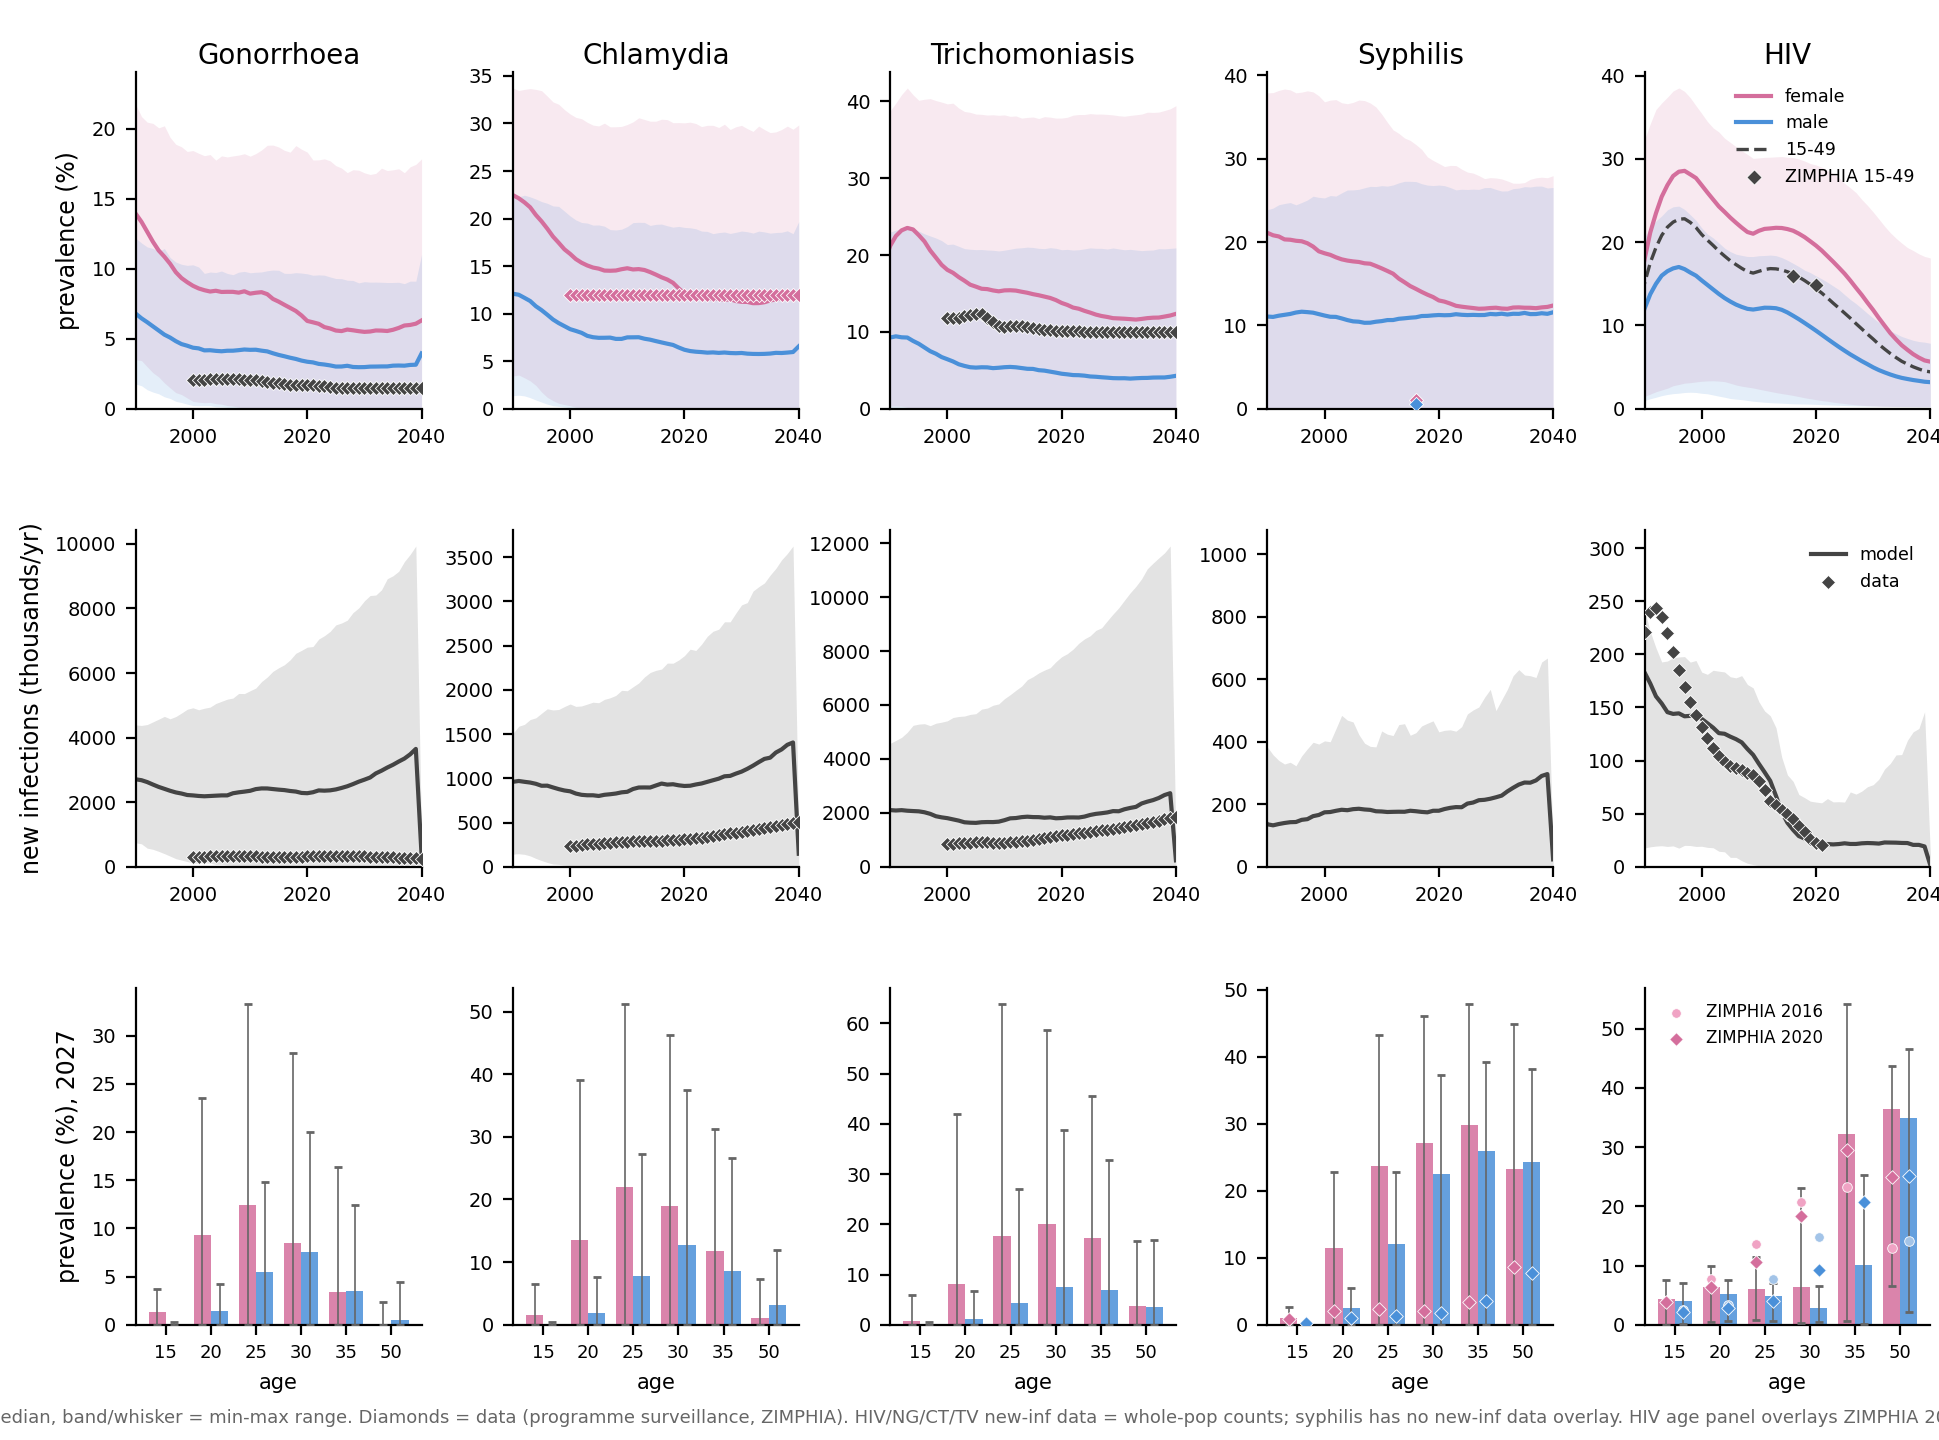
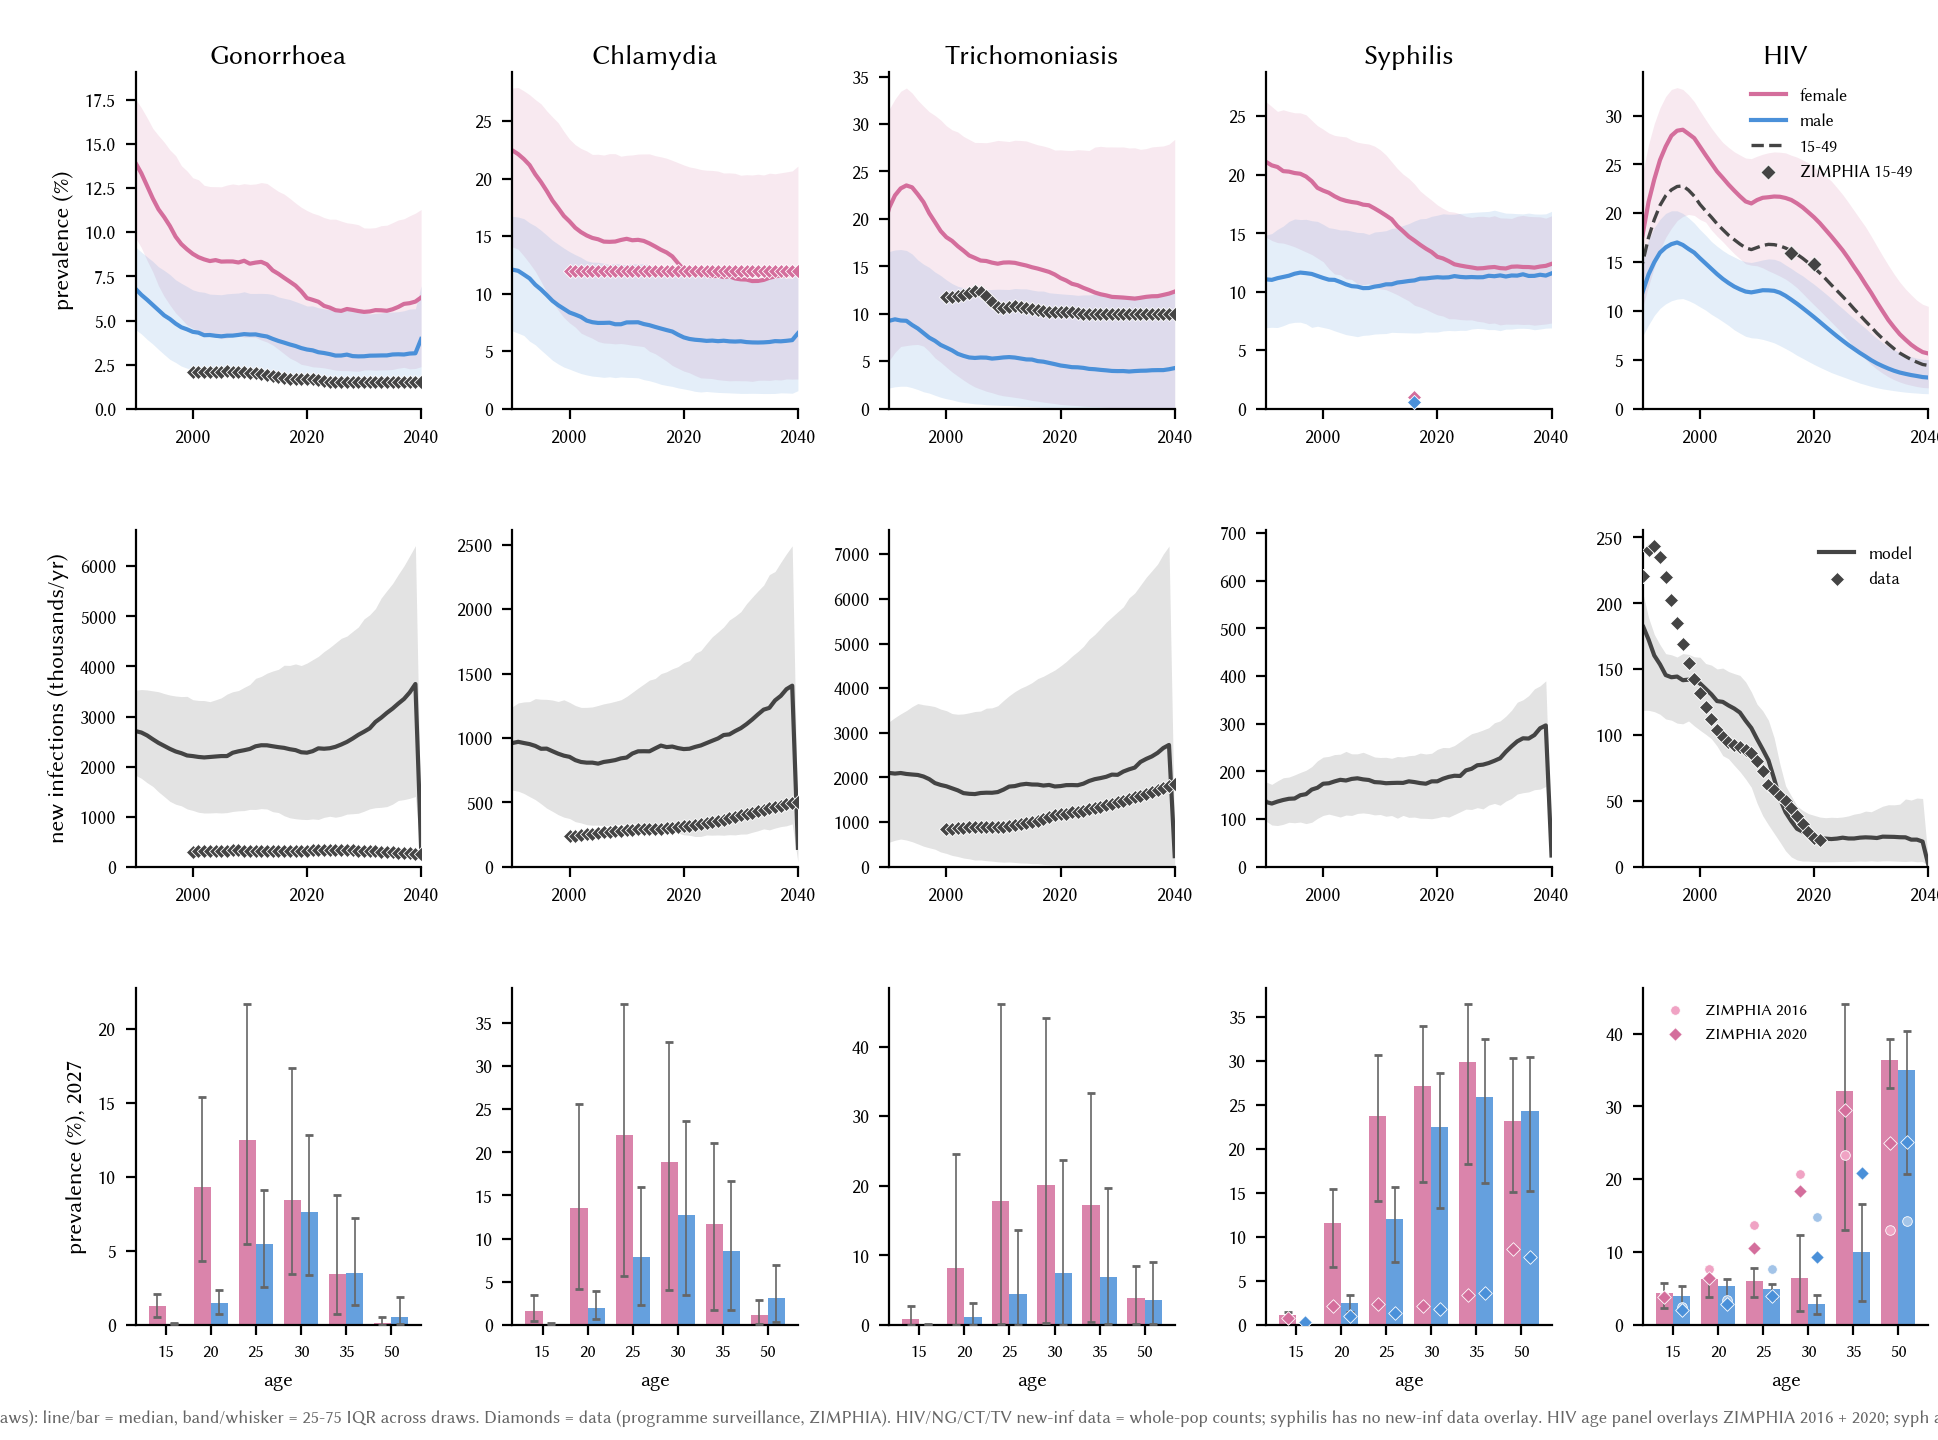
Fix POC pre-2027 divergence + BP rel_sus; use 25-75 IQR bands
- POCPN routes attendees through syndromic mgmt before intv_year (matches
  SOC), only switching to the POC cascade at 2027. Removes the pre-2027
  SOC-vs-POC divergence (verified bit-identical pre-2027).
- CondomCounseling applies rel_sus multiplicatively instead of overwriting,
  composing with hiv_sti/bv cofactors. BP now monotonically reduces NG/CT/TV.
- plot_epi.py / plot_validation.py bands: min-max -> 25-75 IQR across draws.

diff --git a/interventions.py b/interventions.py
@@ -52,17 +52,24 @@ class SyndromicPN(PartnerNotification):
 
 class POCPN(PartnerNotification):
     """
-    Partner notification adapted for POC etiological testing.
+    Partner notification for the POC arm, switching at ``intv_year``.
 
-    On attendance, routes partners through:
+    The POC arm must be identical to the SOC arm before ``intv_year``:
+    pre-switch, attendees are routed through syndromic management exactly
+    as :class:`SyndromicPN` does (by sex, to syndromic_vds/uds). Only at
+    ``intv_year`` does routing switch to the POC etiological cascade:
       1. The POC NG/CT/TV panel (etiological dx, replaces syndromic_vds/uds).
       2. The POC syph PN test (rpr, non-treponemal RDT; 0.90 sens across
          primary/secondary/latent/tertiary, 0.05 FP on cured).
 
-    Looks up both routed interventions by name through ``self.sim`` at
-    step time. Stashing refs at construction would bind to instances
-    that the sim has since cloned (their state arrays would be stale /
-    unallocated).
+    Without this time switch, pre-2027 PN attendees in the POC arm would be
+    routed to ``panel``/``syph_pn_test`` (both gated to ``start=intv_year``),
+    so they'd receive no treatment while the SOC arm treats the same
+    attendees via syndromic management — a deterministic pre-2027 divergence.
+
+    Looks up routed interventions by name through ``self.sim`` at step time.
+    Stashing refs at construction would bind to instances that the sim has
+    since cloned (their state arrays would be stale / unallocated).
 
     Cycle prevention + diagnostic results come from the base
     :class:`sti.PartnerNotification`.
@@ -72,16 +79,39 @@ class POCPN(PartnerNotification):
         panel_name: name of the symptomatic-testing panel intervention to
             route NG/CT/TV testing through (defaults to ``'panel'``).
         syph_pn_test_name: name of the syph PN test (rpr product).
+        syndromic_vds_name: women's syndromic-mgmt intervention (pre-switch).
+        syndromic_uds_name: men's syndromic-mgmt intervention (pre-switch).
+        intv_year: year the POC routing switches on. Default 2027.
     """
     def __init__(self, eligibility, panel_name='panel',
-                 syph_pn_test_name='syph_pn_test', **kwargs):
+                 syph_pn_test_name='syph_pn_test',
+                 syndromic_vds_name='syndromic_vds',
+                 syndromic_uds_name='syndromic_uds',
+                 intv_year=2027, **kwargs):
         super().__init__(eligibility=eligibility, test=None, **kwargs)
         self._panel_name = panel_name
         self._syph_pn_test_name = syph_pn_test_name
+        self._syndromic_vds_name = syndromic_vds_name
+        self._syndromic_uds_name = syndromic_uds_name
+        self._intv_year = intv_year
 
     def notify_attendees(self, uids):
         if not len(uids):
             return
+        # Pre-switch: route through syndromic management, identical to the
+        # SOC arm (SyndromicPN), so the POC arm matches SOC before intv_year.
+        if self.sim.now < self._intv_year:
+            ppl = self.sim.people
+            vds = self.sim.interventions.get(self._syndromic_vds_name)
+            uds = self.sim.interventions.get(self._syndromic_uds_name)
+            f_uids = uids[ppl.female[uids]]
+            m_uids = uids[ppl.male[uids]]
+            if len(f_uids) and vds is not None:
+                vds.step(uids=f_uids)
+            if len(m_uids) and uds is not None:
+                uds.step(uids=m_uids)
+            return
+        # Post-switch: POC etiological cascade.
         panel = self.sim.interventions.get(self._panel_name)
         if panel is not None:
             panel.step(uids=uids)
@@ -734,9 +764,14 @@ class CondomCounseling(ss.Intervention):
     enrolled in a protection window of ``dur``: during it their re-acquisition
     susceptibility (``rel_sus``) for the protected diseases is multiplied by
     ``(1 - eff)``. Acquisition only; onward transmission is left untouched.
-    Each step previously-managed agents are reset to 1.0 and the currently-
-    protected set re-applied, so expiry needs no extra bookkeeping beyond
-    ``ti_protect_end``.
+
+    The multiplier is applied multiplicatively each step, matching how the
+    disease risk factors and coinfection connectors (hiv_sti, bv) compose on
+    ``rel_sus``. Each disease's ``step_state`` resets ``rel_sus[:] = 1`` and
+    connectors re-apply their cofactors before interventions run, so
+    multiplying the currently-protected set here both composes with those
+    cofactors and self-expires when an agent leaves the protected set — no
+    reset bookkeeping needed beyond ``ti_protect_end``.
 
     Default protected diseases are NG / CT / TV / syph. Syph is included
     because PN-driven curative treatment without a protection window drives
@@ -760,7 +795,6 @@ class CondomCounseling(ss.Intervention):
         self.trigger_tx = list(trigger_tx)
         self.start = start
         self._window_steps = None
-        self._managed = ss.uids()
         self.define_states(
             ss.FloatArr('ti_protect_end', default=np.nan),
         )
@@ -796,16 +830,17 @@ class CondomCounseling(ss.Intervention):
                 self.ti_protect_end[enroll] = ti + self._window_steps
 
         protected = (self.ti_protect_end > ti).uids
+        if not len(protected):
+            return
+        # Multiply, don't overwrite: step_state has reset rel_sus[:]=1 and
+        # connectors have re-applied their cofactors this step, so this
+        # composes with them and self-expires when agents leave `protected`.
         factor = 1.0 - float(self.pars.eff)
         for d in self.diseases:
             dis = sim.diseases.get(d)
             if dis is None:
                 continue
-            if len(self._managed):
-                dis.rel_sus[self._managed] = 1.0
-            if len(protected):
-                dis.rel_sus[protected] = factor
-        self._managed = protected
+            dis.rel_sus[protected] *= factor
         return
 
     def init_results(self):
@@ -821,6 +856,6 @@ class CondomCounseling(ss.Intervention):
     def update_results(self):
         super().update_results()
         ti = self.ti
-        self.results['n_protected'][ti] = len(self._managed)
+        self.results['n_protected'][ti] = int((self.ti_protect_end > ti).sum())
         self.results['new_enrolled'][ti] = int((self.ti_protect_end == ti + self._window_steps).sum())
         return

diff --git a/experiments/06_2026-06-24_kseed_calibration/plot_epi.py b/experiments/06_2026-06-24_kseed_calibration/plot_epi.py
@@ -110,7 +110,7 @@ def main():
         for sex, col in [('f', F_COLOR), ('m', M_COLOR)]:
             s = ts[(ts.disease == d) & (ts.result_name == f'prevalence_{sex}')]
             g = s.groupby('year').value
-            med = g.median(); lo = g.min(); hi = g.max()
+            med = g.median(); lo = g.quantile(0.25); hi = g.quantile(0.75)
             yr = med.index.values
             ax.fill_between(yr, lo.values * 100, hi.values * 100, color=col, alpha=0.15, lw=0)
             ax.plot(yr, med.values * 100, color=col, lw=1.5,
@@ -140,7 +140,7 @@ def main():
     for ax, d in zip(axes[1], DISEASES):
         s = ts[(ts.disease == d) & (ts.result_name == 'new_infections')]
         g = s.groupby('year').value
-        med = g.median() / 1e3; lo = g.min() / 1e3; hi = g.max() / 1e3
+        med = g.median() / 1e3; lo = g.quantile(0.25) / 1e3; hi = g.quantile(0.75) / 1e3
         yr = med.index.values
         ax.fill_between(yr, lo.values, hi.values, color=DATA_C, alpha=0.15, lw=0)
         ax.plot(yr, med.values, color=DATA_C, lw=1.5, label='model')
@@ -165,8 +165,8 @@ def main():
             for ab in AGES:
                 g = ad[(ad.sex == sex) & (ad.age == ab)].value
                 med.append(g.median() * 100 if len(g) else np.nan)
-                lo.append(g.min() * 100 if len(g) else np.nan)
-                hi.append(g.max() * 100 if len(g) else np.nan)
+                lo.append(g.quantile(0.25) * 100 if len(g) else np.nan)
+                hi.append(g.quantile(0.75) * 100 if len(g) else np.nan)
             med = np.array(med)
             yerr = np.vstack([med - np.array(lo), np.array(hi) - med])
             ax.bar(x + off, med, w, color=col, alpha=0.85)
@@ -193,7 +193,7 @@ def main():
             ax.set_ylabel(f'prevalence (%), {SNAP_YEAR}', fontsize=8.5)
 
     fig.text(0.5, 0.012,
-             f'Exp 06 K=5 calibration, {label} ({len(kept_ids)} draws): line/bar = median, band/whisker = min-max range. '
+             f'Exp 06 K=5 calibration, {label} ({len(kept_ids)} draws): line/bar = median, band/whisker = 25-75 IQR across draws. '
              'Diamonds = data (programme surveillance, ZIMPHIA). HIV/NG/CT/TV new-inf data = whole-pop counts; '
              f'syphilis has no new-inf data overlay. HIV age panel overlays ZIMPHIA 2016 + 2020; '
              f'syph age is treponemal. Age panels at {SNAP_YEAR}.',

diff --git a/plot_validation.py b/plot_validation.py
@@ -56,7 +56,7 @@ def main():
             sub = s[s.cell == cell]
             g = sub.groupby('year').value
             med = g.median() / 1e3
-            lo, hi = g.min() / 1e3, g.max() / 1e3
+            lo, hi = g.quantile(0.25) / 1e3, g.quantile(0.75) / 1e3
             yr = med.index.values
             ax.fill_between(yr, lo.values, hi.values, color=color, alpha=0.10, lw=0)
             ax.plot(yr, med.values, color=color, lw=1.2, ls=ls, label=label)
@@ -79,8 +79,8 @@ def main():
         for cell, _, _, _ in CELL_ORDER:
             vals = kavg.loc[kavg.cell == cell, col] / 1e6  # millions
             med.append(vals.median())
-            lo.append(vals.min())
-            hi.append(vals.max())
+            lo.append(vals.quantile(0.25))
+            hi.append(vals.quantile(0.75))
         med, lo, hi = np.array(med), np.array(lo), np.array(hi)
         yerr = np.vstack([med - lo, hi - med])
         colors = [c for _, _, c, _ in CELL_ORDER]
@@ -97,9 +97,9 @@ def main():
 
     fig.text(0.5, 0.012,
              'Validation run: 5 cells x 5 draws (exp 06 top 5) x K=5 seeds. '
-             'Top: annual new infections, line = K=5-then-cross-draw median, band = cross-draw min-max. '
+             'Top: annual new infections, line = K=5-then-cross-draw median, band = cross-draw 25-75 IQR. '
              'Dotted vertical = intervention start (2027). '
-             'Bottom: cumulative new infections 2027-40 (median + min-max across 5 draws).',
+             'Bottom: cumulative new infections 2027-40 (median + 25-75 IQR across draws).',
              ha='center', fontsize=6.8, color='#666')
     fig.subplots_adjust(left=0.06, right=0.995, top=0.94, bottom=0.16, wspace=0.32, hspace=0.45)
     out = REPO / 'results' / 'fig_validation_overview.png'
